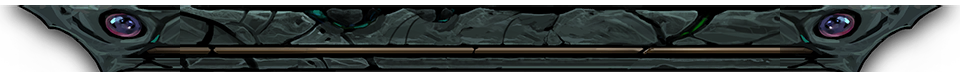
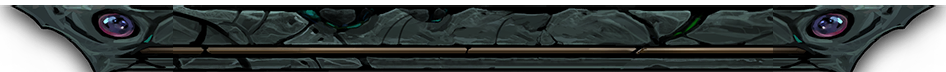
The stone bar's empty end columns trimmed, so its tips reach the window's edges; the dataset and the "Updated:" date in capitals like Settings and Donate (the font's thin lowercase looked blurred), with a crisper shadow

diff --git a/HTML/header.html b/HTML/header.html
@@ -763,14 +763,16 @@
             display: flex;
             gap: 28px;
             font-family: "Header", serif;
-            font-size: 15px;
+            font-size: 14px;
+            /* in capitals, as Settings, Donate and the menu: the font's lowercase is thin at this size */
+            text-transform: uppercase;
             color: #e6d9b8;
-            text-shadow: 1px 1px 2px black;
+            text-shadow: 1px 1px 1px black;
             white-space: nowrap;
         }
         .hud-date {
             color: #bbcdf6;
-            font-size: 14px;
+            font-size: 13px;
         }
 
         .topbar {

diff --git a/Style/style.css b/Style/style.css
@@ -306,8 +306,9 @@ a:hover {
         margin: 0 -8px 16px;
         padding: 0 0 4px; /* the bar's copper trim under the labels */
         background: none;
-        border-width: 0 100px;
-        border-image: url(/evolved/Icons/Interface/HudStoneBar.png) 0 180 fill / 0 100px round;
+        /* the gem ends (173px of the image) at the stone's scale; the stone's tips touch the window's edges */
+        border-width: 0 96px;
+        border-image: url(/evolved/Icons/Interface/HudStoneBar.png) 0 173 fill / 0 96px round;
     }
     #menu > li > a {
         line-height: 38px;

diff --git a/EVOLVED.md b/EVOLVED.md
@@ -60,7 +60,7 @@ game's world-map HUD (its sheet is `Icons/Interface/TopBar.png`), in three bands
     and the ability diamond) are the game's `unit`, `province` and `casttactical` text icons (`Icons/TML/`) in the
     medallions' beige, on a blank dark sphere made from the site's other medallions.
   Each glyph Evolved draws is centred in its sphere; the four HUD buttons keep the game's own placement.
-  The "Updated:" date is 14px (11px on a phone), a size under the dataset's name.
+  The dataset and the "Updated:" date are in capitals, as Settings, Donate and the menu (the Header font's lowercase is thin and looks blurred at this size), 14px and 13px (11px on a phone).
 No Other Database dropdown: Evolved keeps no other databases. On a phone the strip holds just the dataset and date,
 and Settings and Donate are at the foot of the ☰ menu, a drawer on the cards' panel.
 
